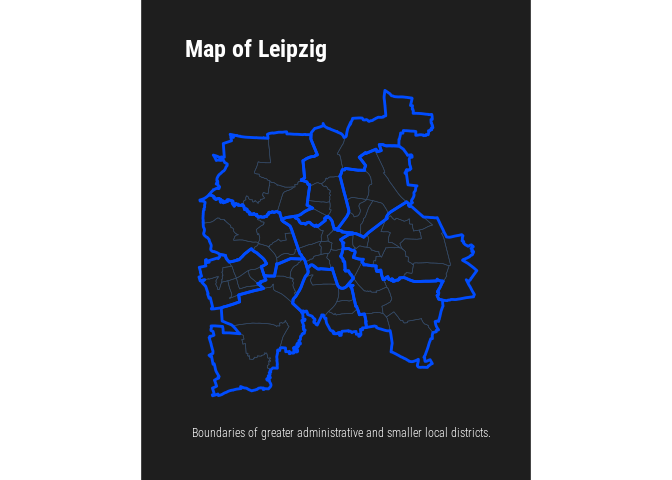
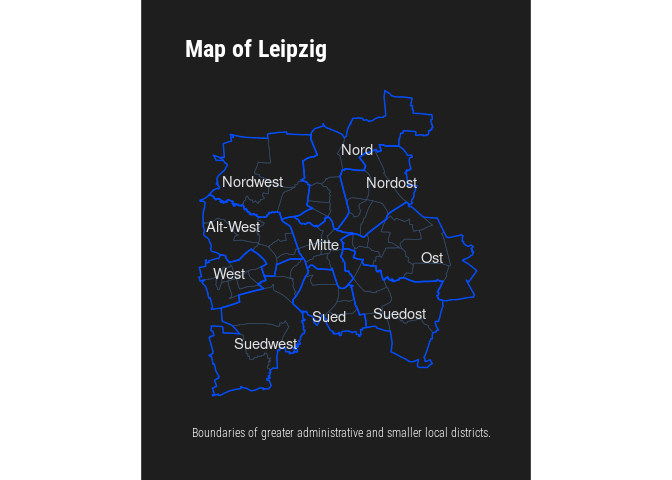
UPDATE pkgdown

diff --git a/docs/index.html b/docs/index.html
@@ -345,6 +345,11 @@
 <h1 class="hasAnchor">
 <a href="#map" class="anchor"></a>Map</h1>
 <div class="sourceCode" id="cb17"><pre class="downlit">
+<span class="va">df.centres</span> <span class="op">&lt;-</span> <span class="va">df.DISTRICTS_LARGE</span> <span class="op">%&gt;%</span> 
+  <span class="fu">group_by</span><span class="op">(</span><span class="va">group</span><span class="op">)</span> <span class="op">%&gt;%</span> 
+  <span class="fu">summarise</span><span class="op">(</span>LON <span class="op">=</span> <span class="fu"><a href="https://rdrr.io/r/base/mean.html">mean</a></span><span class="op">(</span><span class="va">lon</span><span class="op">)</span>, 
+            LAT <span class="op">=</span> <span class="fu"><a href="https://rdrr.io/r/base/mean.html">mean</a></span><span class="op">(</span><span class="va">lat</span><span class="op">)</span><span class="op">)</span>
+
 <span class="fu">ggplot</span><span class="op">(</span><span class="fu">aes</span><span class="op">(</span>x <span class="op">=</span> <span class="va">lon</span>, y <span class="op">=</span> <span class="va">lat</span>, group <span class="op">=</span> <span class="va">group</span><span class="op">)</span>, data <span class="op">=</span> <span class="va">df.DISTRICTS_SMALL</span><span class="op">)</span> <span class="op">+</span>
   <span class="fu">hrbrthemes</span><span class="fu">::</span><span class="fu"><a href="https://rdrr.io/pkg/hrbrthemes/man/theme_ipsum_rc.html">theme_modern_rc</a></span><span class="op">(</span><span class="op">)</span> <span class="op">+</span>
   <span class="fu">theme</span><span class="op">(</span>
@@ -353,15 +358,17 @@
     axis.text.x <span class="op">=</span> <span class="fu">element_blank</span><span class="op">(</span><span class="op">)</span>,
     axis.text.y <span class="op">=</span> <span class="fu">element_blank</span><span class="op">(</span><span class="op">)</span>
   <span class="op">)</span> <span class="op">+</span>
-  <span class="fu">coord_quickmap</span><span class="op">(</span><span class="op">)</span> <span class="op">+</span>
+  <span class="fu">coord_map</span><span class="op">(</span><span class="op">)</span> <span class="op">+</span>
   <span class="fu">geom_polygon</span><span class="op">(</span>fill <span class="op">=</span> <span class="cn">NA</span>, size <span class="op">=</span> <span class="fl">0.2</span>, color <span class="op">=</span> <span class="st">"#354C6A"</span><span class="op">)</span> <span class="op">+</span>
-  <span class="fu">geom_polygon</span><span class="op">(</span>color <span class="op">=</span> <span class="st">"#004CFF"</span>, size <span class="op">=</span> <span class="fl">1</span>, fill <span class="op">=</span> <span class="cn">NA</span>, data <span class="op">=</span> <span class="va">df.DISTRICTS_LARGE</span><span class="op">)</span> <span class="op">+</span>
+  <span class="fu">geom_polygon</span><span class="op">(</span>color <span class="op">=</span> <span class="st">"#004CFF"</span>, size <span class="op">=</span> <span class="fl">0.5</span>, fill <span class="op">=</span> <span class="cn">NA</span>, data <span class="op">=</span> <span class="va">df.DISTRICTS_LARGE</span><span class="op">)</span> <span class="op">+</span>
   <span class="fu">labs</span><span class="op">(</span>
     title <span class="op">=</span> <span class="st">"Map of Leipzig"</span>,
     x <span class="op">=</span> <span class="cn">NULL</span>,
     y <span class="op">=</span> <span class="cn">NULL</span>,
     caption <span class="op">=</span> <span class="st">"Boundaries of greater administrative and smaller local districts."</span>
-  <span class="op">)</span></pre></div>
+  <span class="op">)</span> <span class="op">+</span>
+  <span class="fu">annotate</span><span class="op">(</span><span class="st">'text'</span>, x <span class="op">=</span> <span class="va">df.centres</span><span class="op">$</span><span class="va">LON</span>, y <span class="op">=</span> <span class="va">df.centres</span><span class="op">$</span><span class="va">LAT</span>, label <span class="op">=</span> <span class="va">df.centres</span><span class="op">$</span><span class="va">group</span>,
+           colour <span class="op">=</span> <span class="st">'#E2E3E7'</span><span class="op">)</span></pre></div>
 <p><img src="reference/figures/README-map-1.png" width="100%"></p>
 </div>
 

diff --git a/README.md b/README.md
@@ -293,6 +293,11 @@ ggplot(df.sub, aes(
 # Map
 
 ``` r
+df.centres <- df.DISTRICTS_LARGE %>% 
+  group_by(group) %>% 
+  summarise(LON = mean(lon), 
+            LAT = mean(lat))
+
 ggplot(aes(x = lon, y = lat, group = group), data = df.DISTRICTS_SMALL) +
   hrbrthemes::theme_modern_rc() +
   theme(
@@ -301,15 +306,17 @@ ggplot(aes(x = lon, y = lat, group = group), data = df.DISTRICTS_SMALL) +
     axis.text.x = element_blank(),
     axis.text.y = element_blank()
   ) +
-  coord_quickmap() +
+  coord_map() +
   geom_polygon(fill = NA, size = 0.2, color = "#354C6A") +
-  geom_polygon(color = "#004CFF", size = 1, fill = NA, data = df.DISTRICTS_LARGE) +
+  geom_polygon(color = "#004CFF", size = 0.5, fill = NA, data = df.DISTRICTS_LARGE) +
   labs(
     title = "Map of Leipzig",
     x = NULL,
     y = NULL,
     caption = "Boundaries of greater administrative and smaller local districts."
-  )
+  ) +
+  annotate('text', x = df.centres$LON, y = df.centres$LAT, label = df.centres$group,
+           colour = '#E2E3E7')
 ```
 
 <img src="man/figures/README-map-1.png" width="100%" />
